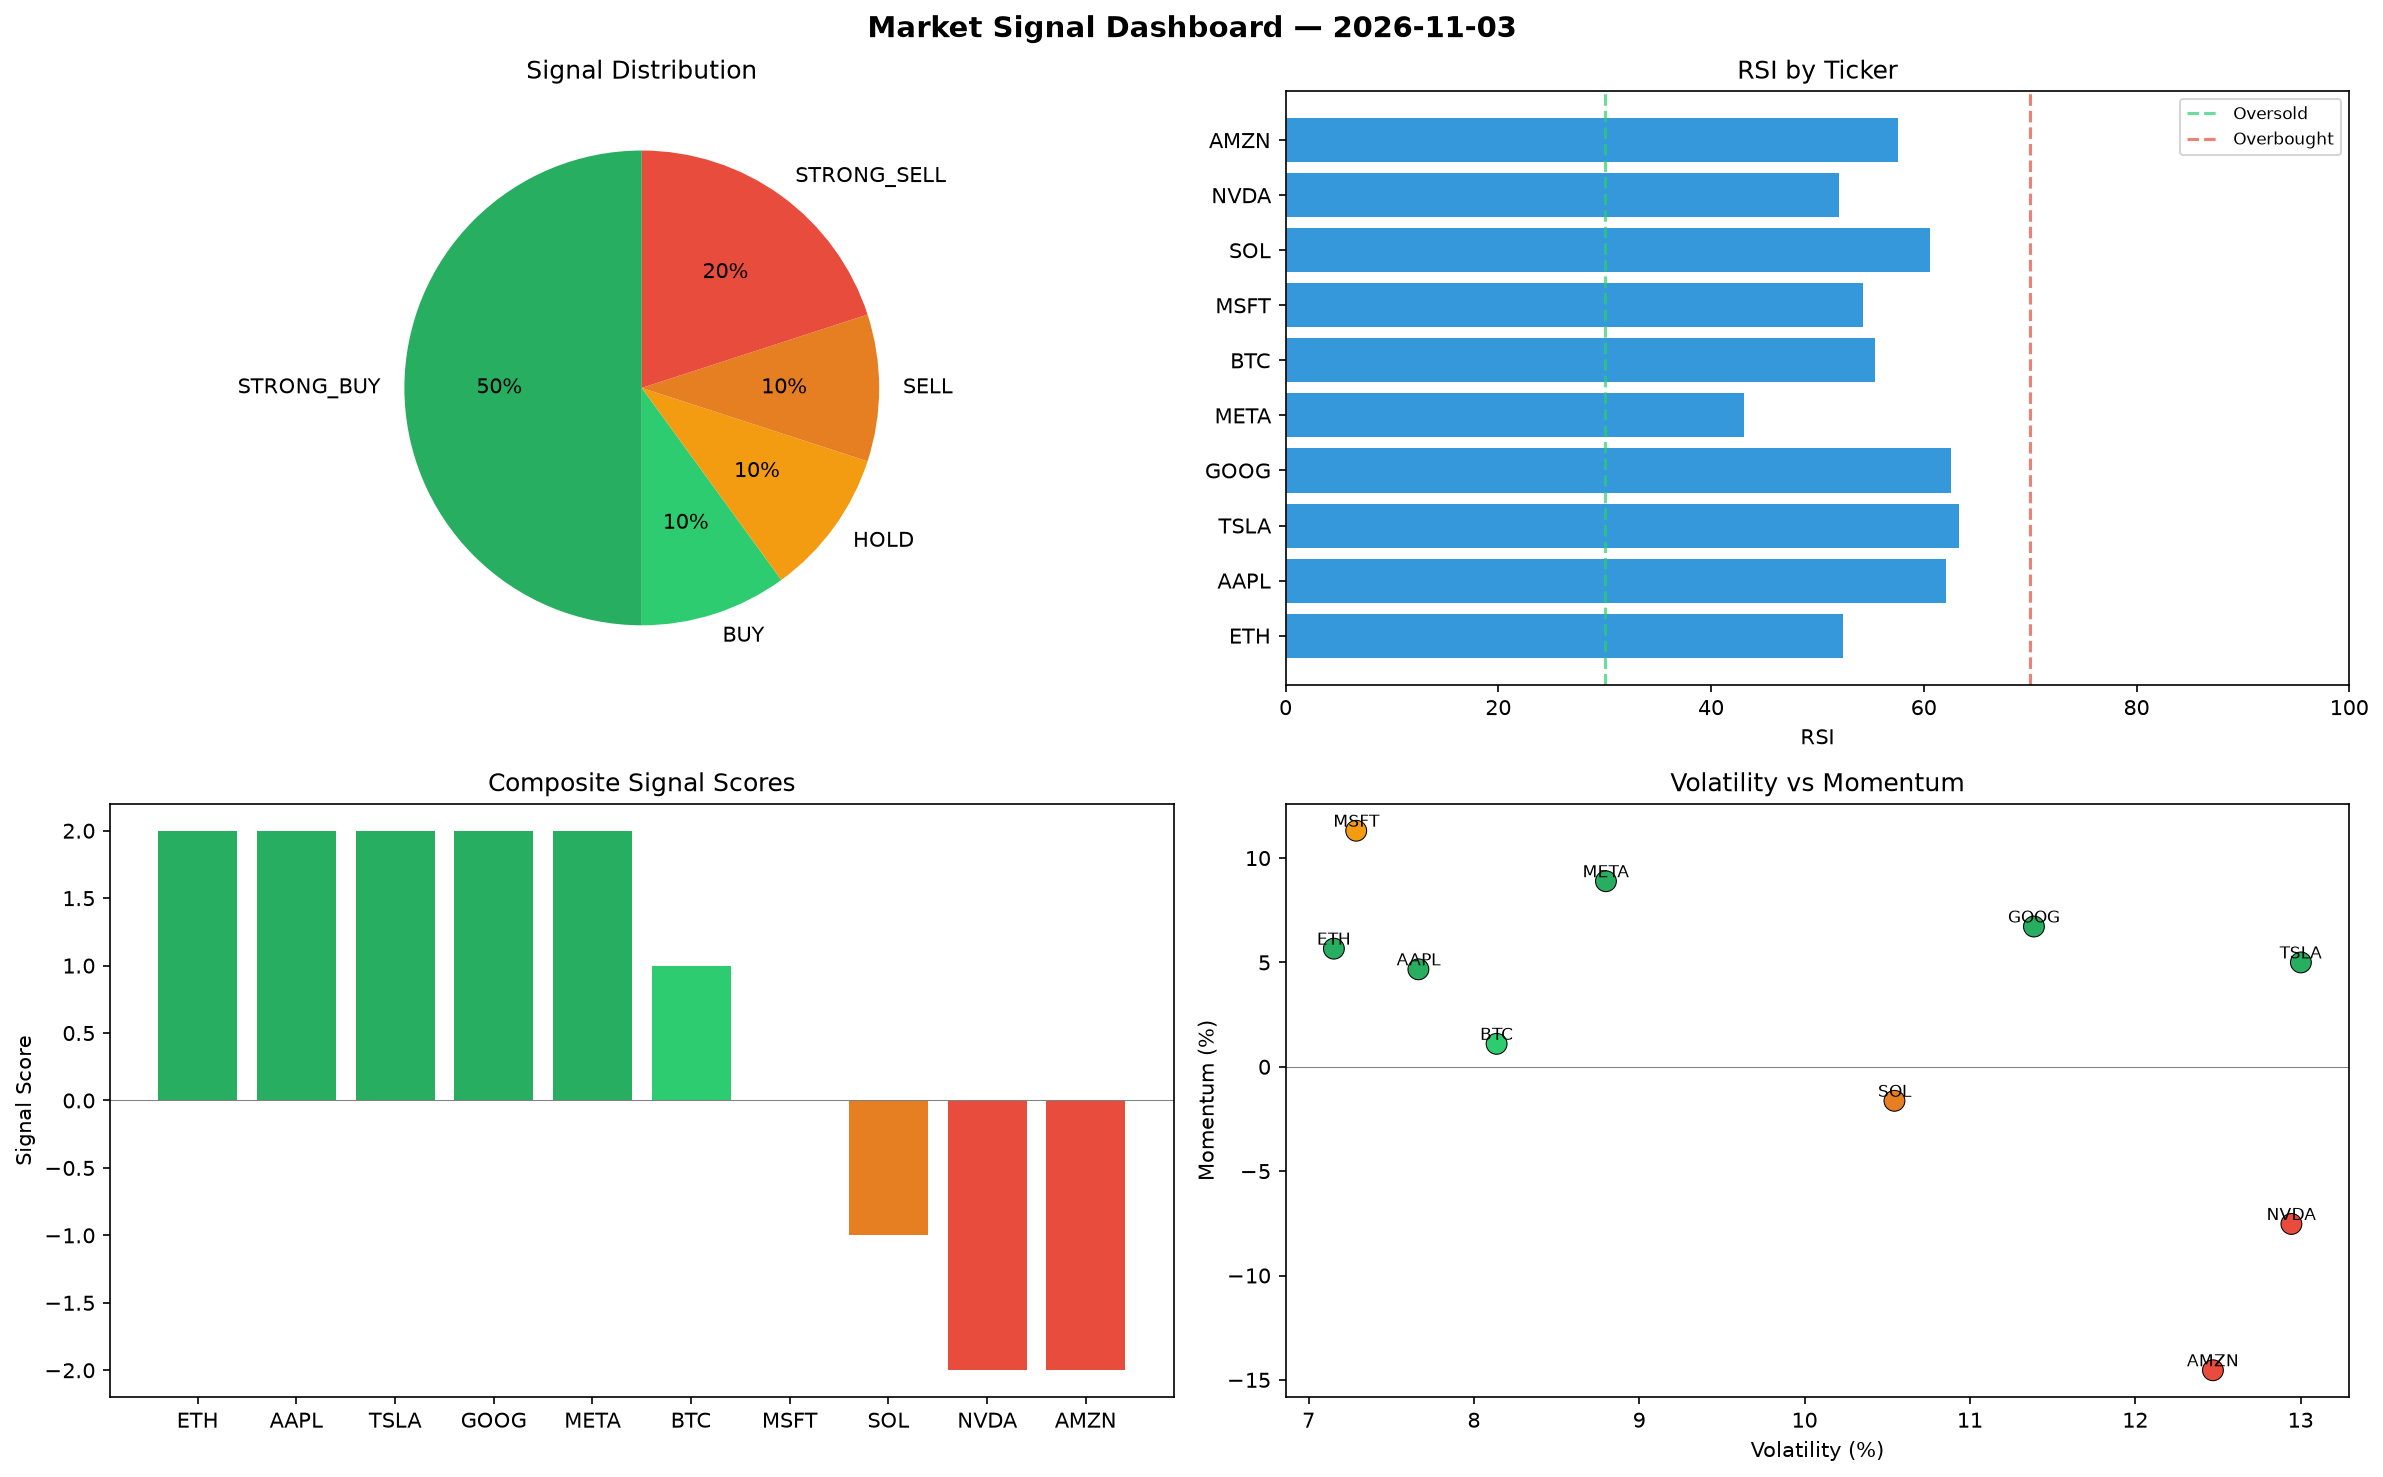
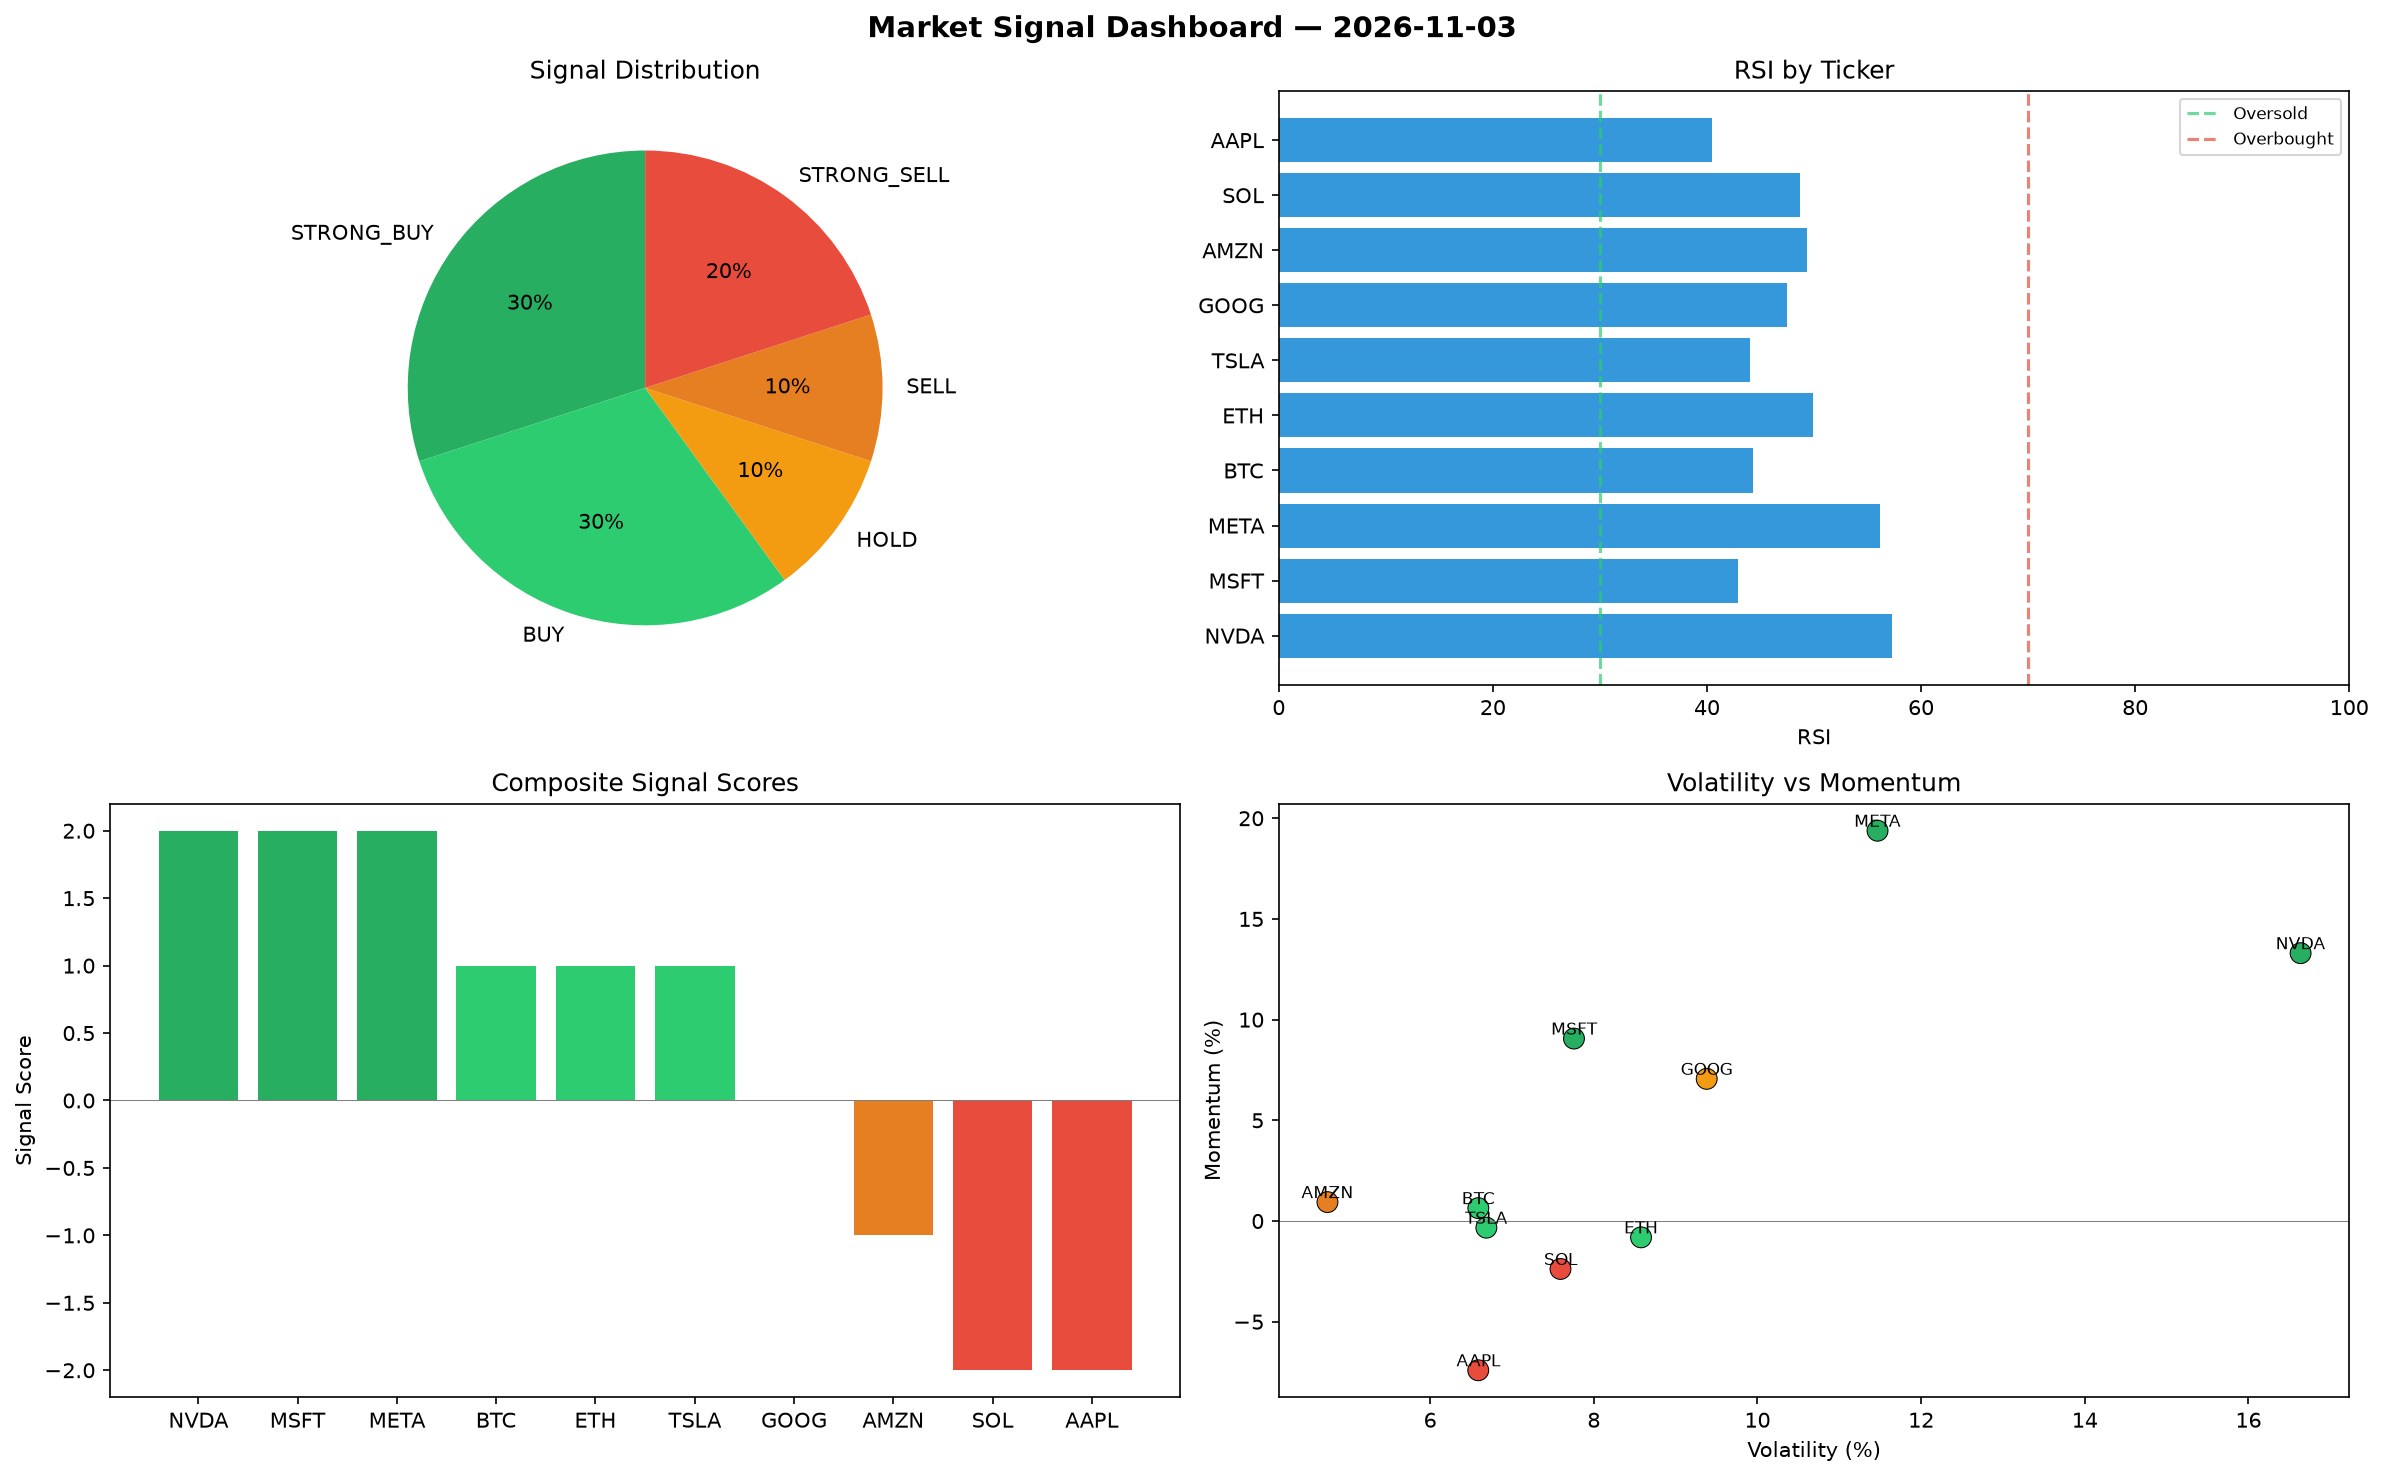
automated-bots: market signals 2026-11-03T16:24

diff --git a/logs/2026-11-03.md b/logs/2026-11-03.md
@@ -1,6 +1,6 @@
 # Market Signal Report — 2026-11-03
 
-**Run ID:** `c2fe65af6c` | **Buy:** 6 | **Sell:** 3 | **Hold:** 1
+**Run ID:** `ee84b87ce9` | **Buy:** 6 | **Sell:** 3 | **Hold:** 1
 
 ![Dashboard](2026-11-03_dashboard.png)
 
@@ -8,28 +8,28 @@
 
 | Ticker | Price | Signal | Score | RSI | Momentum | Confidence |
 |--------|-------|--------|-------|-----|----------|------------|
-| ETH | $2922.1 | **STRONG_BUY** | 2 | 52.45 | 0.0566 | 0.5 |
-| AAPL | $2363.41 | **STRONG_BUY** | 2 | 62.06 | 0.0467 | 0.5 |
-| TSLA | $4295.3 | **STRONG_BUY** | 2 | 63.34 | 0.05 | 0.5 |
-| GOOG | $4264.42 | **STRONG_BUY** | 2 | 62.6 | 0.0672 | 0.5 |
-| META | $4603.86 | **STRONG_BUY** | 2 | 43.08 | 0.0889 | 0.5 |
-| BTC | $2908.25 | **BUY** | 1 | 55.43 | 0.011 | 0.25 |
-| MSFT | $4989.52 | **HOLD** | 0 | 54.28 | 0.1131 | 0.0 |
-| SOL | $457.3 | **SELL** | -1 | 60.58 | -0.0163 | 0.25 |
-| NVDA | $35.35 | **STRONG_SELL** | -2 | 52.01 | -0.0753 | 0.5 |
-| AMZN | $4296.0 | **STRONG_SELL** | -2 | 57.57 | -0.1454 | 0.5 |
+| NVDA | $1498.34 | **STRONG_BUY** | 2 | 57.32 | 0.133 | 0.5 |
+| MSFT | $4144.77 | **STRONG_BUY** | 2 | 42.88 | 0.0906 | 0.5 |
+| META | $1630.29 | **STRONG_BUY** | 2 | 56.15 | 0.1938 | 0.5 |
+| BTC | $1295.52 | **BUY** | 1 | 44.27 | 0.0064 | 0.25 |
+| ETH | $1531.66 | **BUY** | 1 | 49.92 | -0.0081 | 0.25 |
+| TSLA | $1473.44 | **BUY** | 1 | 44.0 | -0.0033 | 0.25 |
+| GOOG | $595.11 | **HOLD** | 0 | 47.43 | 0.0706 | 0.0 |
+| AMZN | $3312.85 | **SELL** | -1 | 49.39 | 0.0094 | 0.25 |
+| SOL | $1968.48 | **STRONG_SELL** | -2 | 48.66 | -0.0238 | 0.5 |
+| AAPL | $2260.51 | **STRONG_SELL** | -2 | 40.49 | -0.0741 | 0.5 |
 
 ## Delta vs Yesterday
 
 | Ticker | Today | Yesterday | Price Change | Signal Changed |
 |--------|-------|-----------|-------------|----------------|
-| ETH | STRONG_BUY | STRONG_SELL | 📉 -17.54% | ⚠ YES |
-| AAPL | STRONG_BUY | HOLD | 📈 64.01% | ⚠ YES |
-| TSLA | STRONG_BUY | BUY | 📉 -4.11% | ⚠ YES |
-| GOOG | STRONG_BUY | STRONG_BUY | 📈 175.27% | — |
-| META | STRONG_BUY | HOLD | 📈 3.83% | ⚠ YES |
-| BTC | BUY | STRONG_BUY | 📈 76.02% | ⚠ YES |
-| MSFT | HOLD | STRONG_SELL | 📈 186.2% | ⚠ YES |
-| SOL | SELL | HOLD | 📉 -88.73% | ⚠ YES |
-| NVDA | STRONG_SELL | STRONG_BUY | 📉 -99.07% | ⚠ YES |
-| AMZN | STRONG_SELL | BUY | 📈 116.33% | ⚠ YES |
+| NVDA | STRONG_BUY | STRONG_BUY | 📉 -60.7% | — |
+| MSFT | STRONG_BUY | STRONG_SELL | 📈 137.75% | ⚠ YES |
+| META | STRONG_BUY | HOLD | 📉 -63.23% | ⚠ YES |
+| BTC | BUY | STRONG_BUY | 📉 -21.59% | ⚠ YES |
+| ETH | BUY | STRONG_SELL | 📉 -56.78% | ⚠ YES |
+| TSLA | BUY | BUY | 📉 -67.1% | — |
+| GOOG | HOLD | STRONG_BUY | 📉 -61.59% | ⚠ YES |
+| AMZN | SELL | BUY | 📈 66.82% | ⚠ YES |
+| SOL | STRONG_SELL | HOLD | 📉 -51.47% | ⚠ YES |
+| AAPL | STRONG_SELL | HOLD | 📈 56.87% | ⚠ YES |
